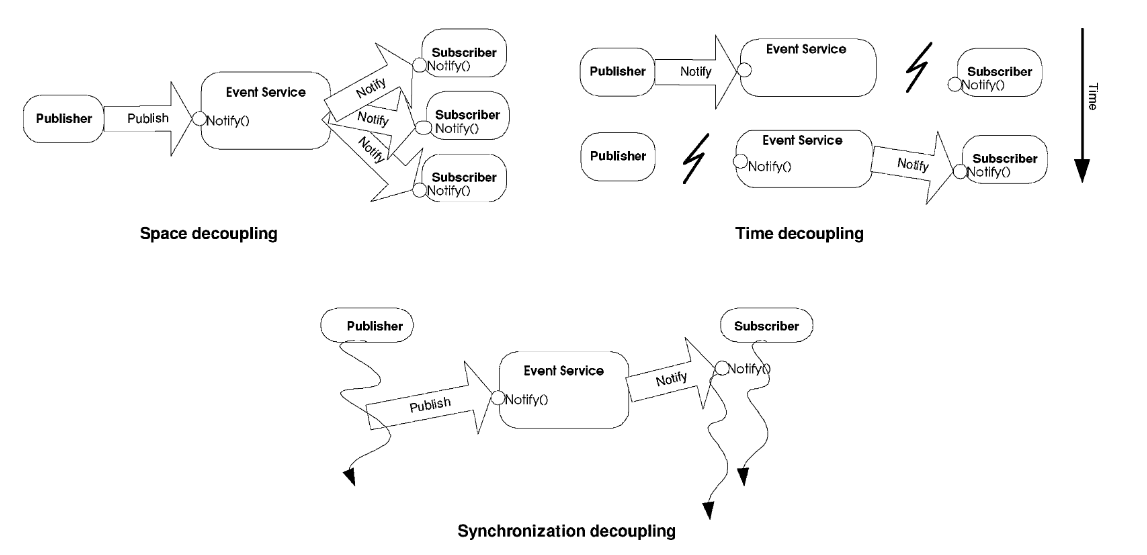
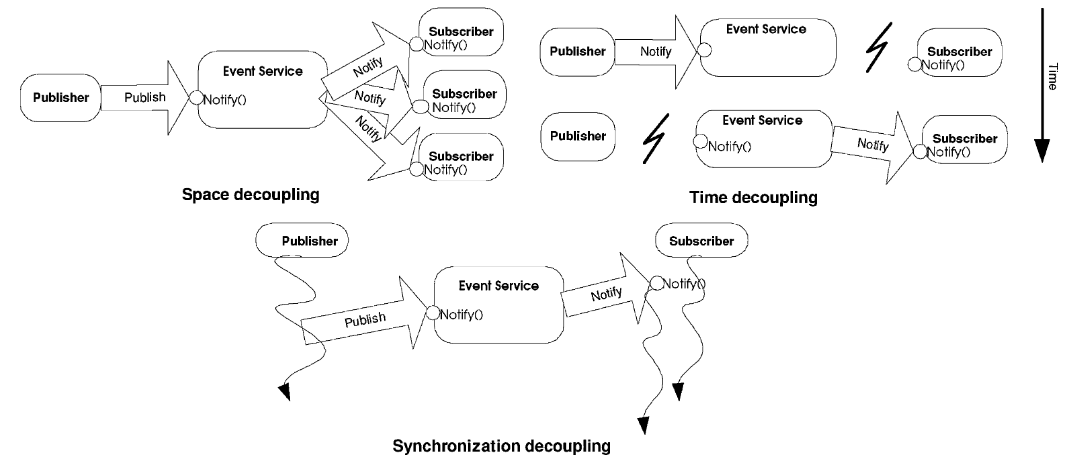
fixed some extensive white margins

diff --git a/middleware/communicationPatterns.tex b/middleware/communicationPatterns.tex
@@ -30,7 +30,7 @@ In a distributed system, we view middleware as one or multiple applications that
 
 \begin{figure}[h!]\label{}
 	\centering
-	\includegraphics[scale=0.5]{middleware/pubsub.png}
+	\includegraphics[scale=0.6]{middleware/pubsub.png}
 	\caption{The publish-subscribe pattern archives space, time and flow decoupling.}
 	\label{fig:pubsub}
 \end{figure}
